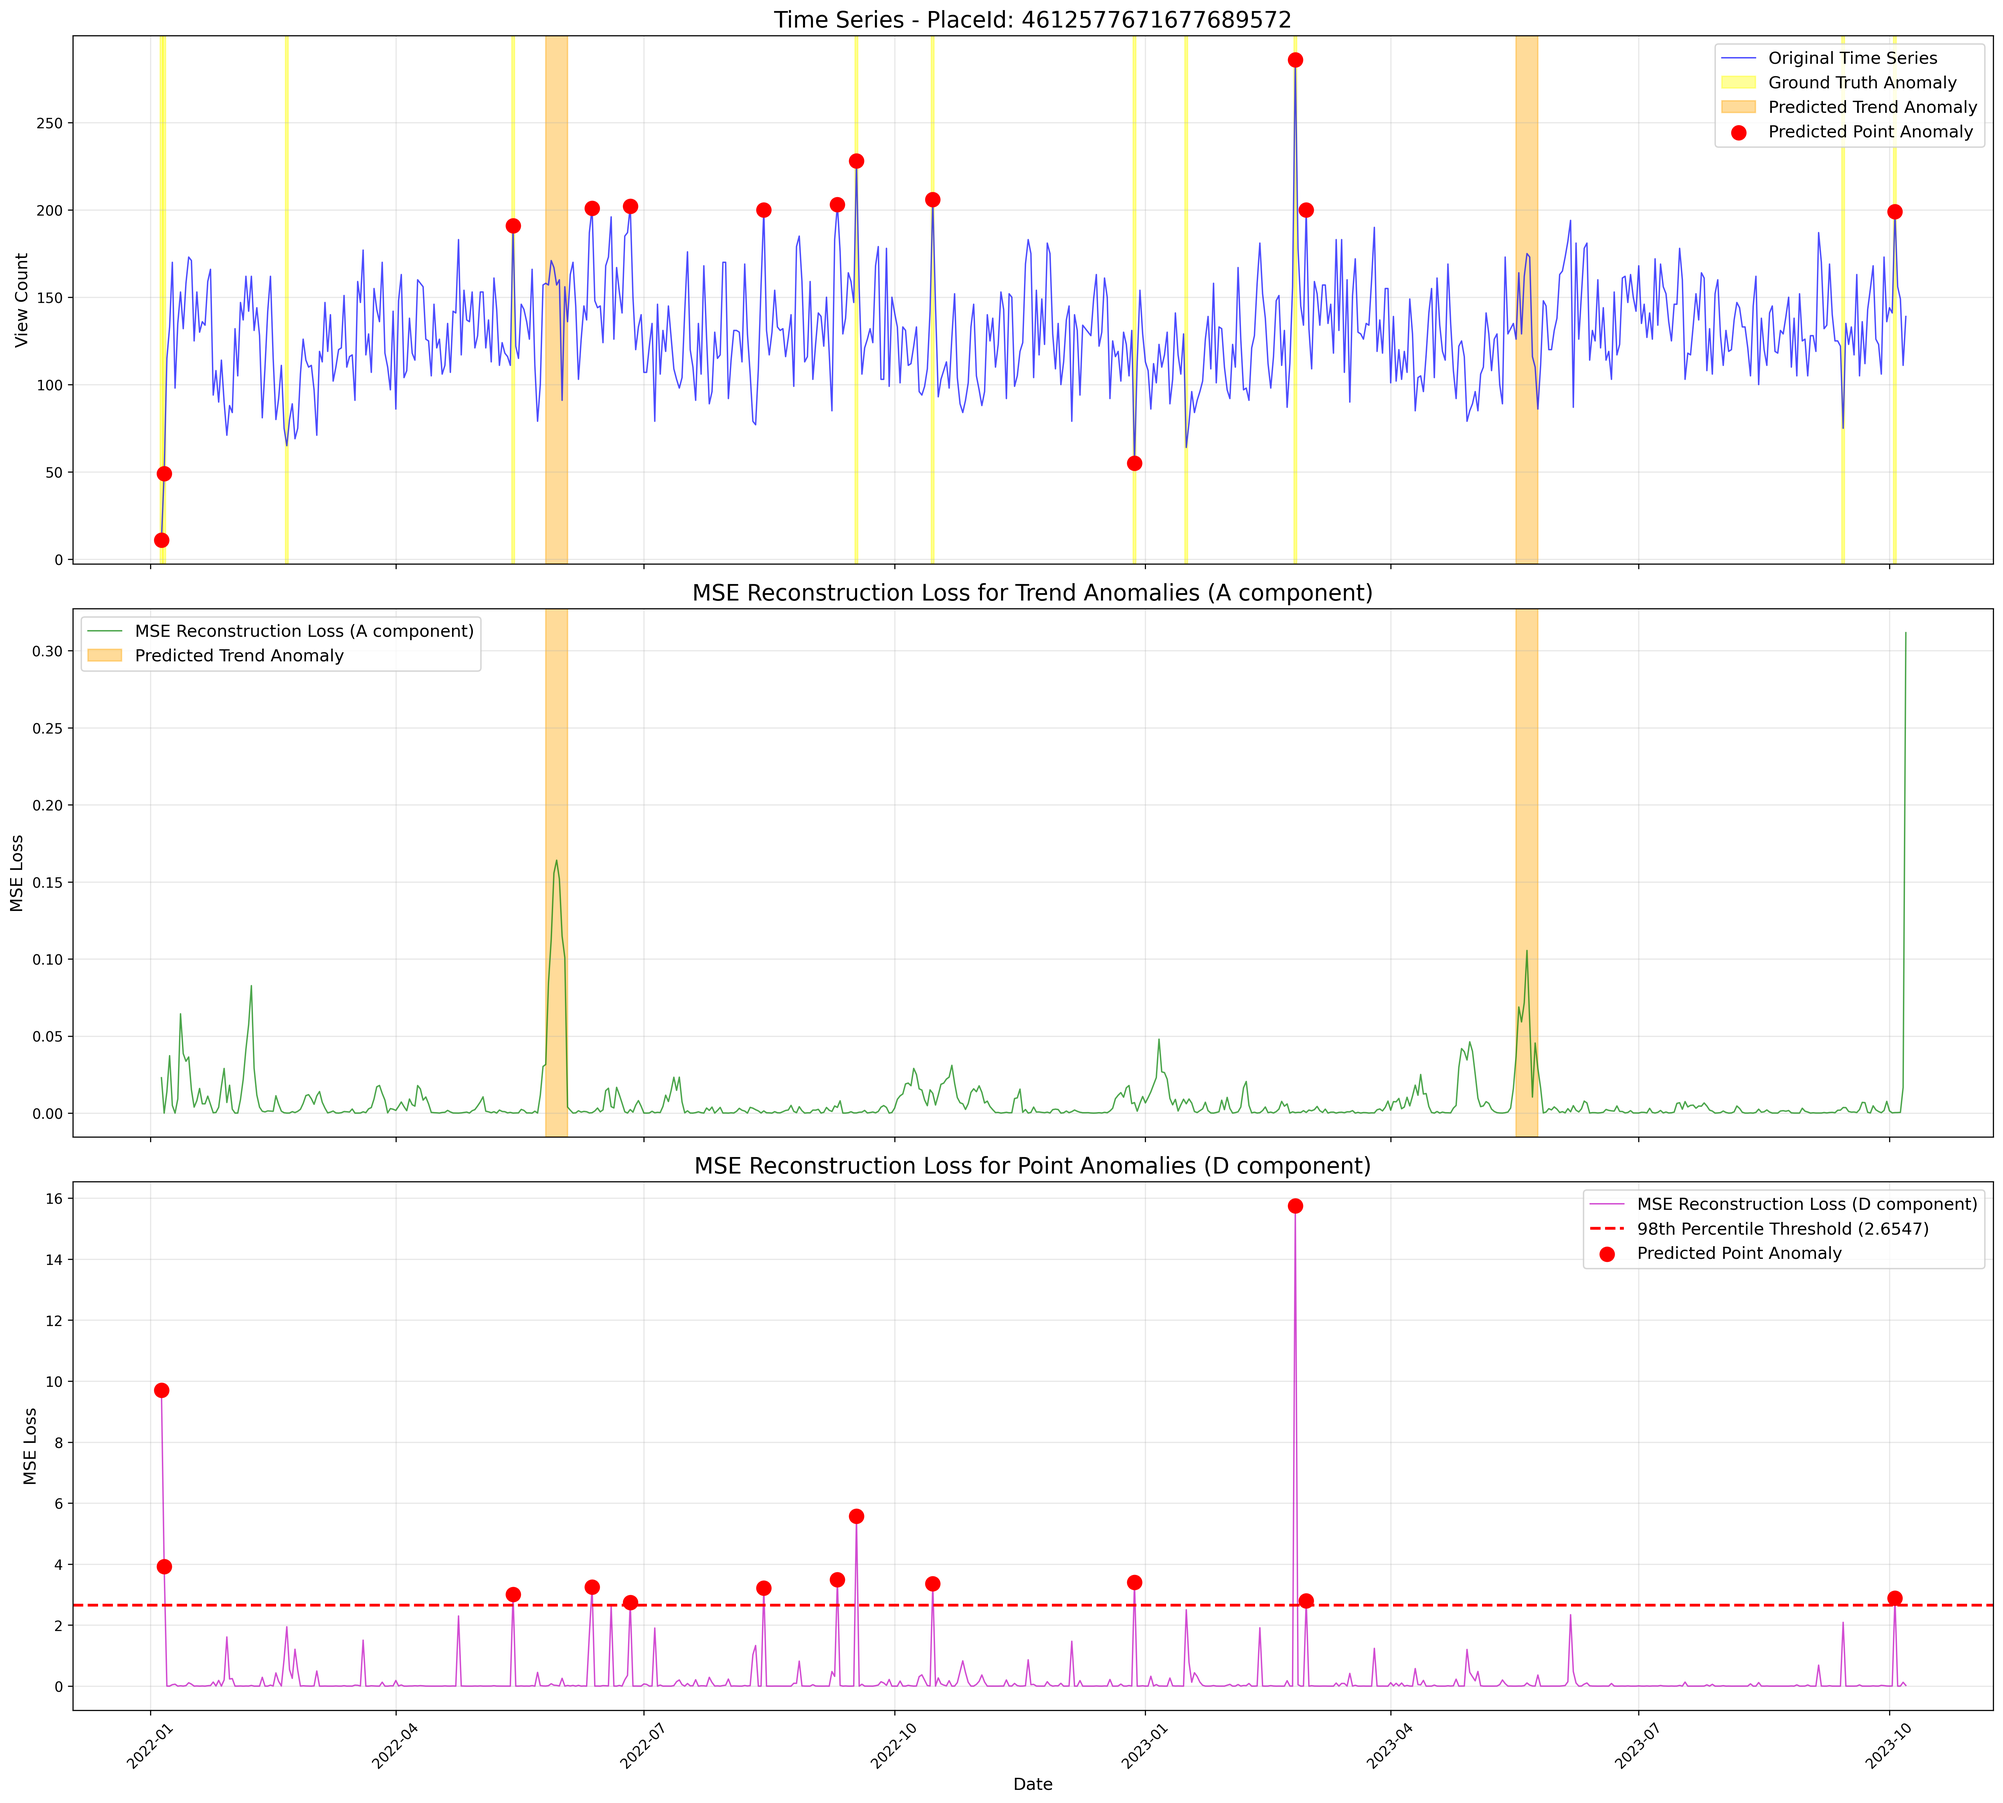
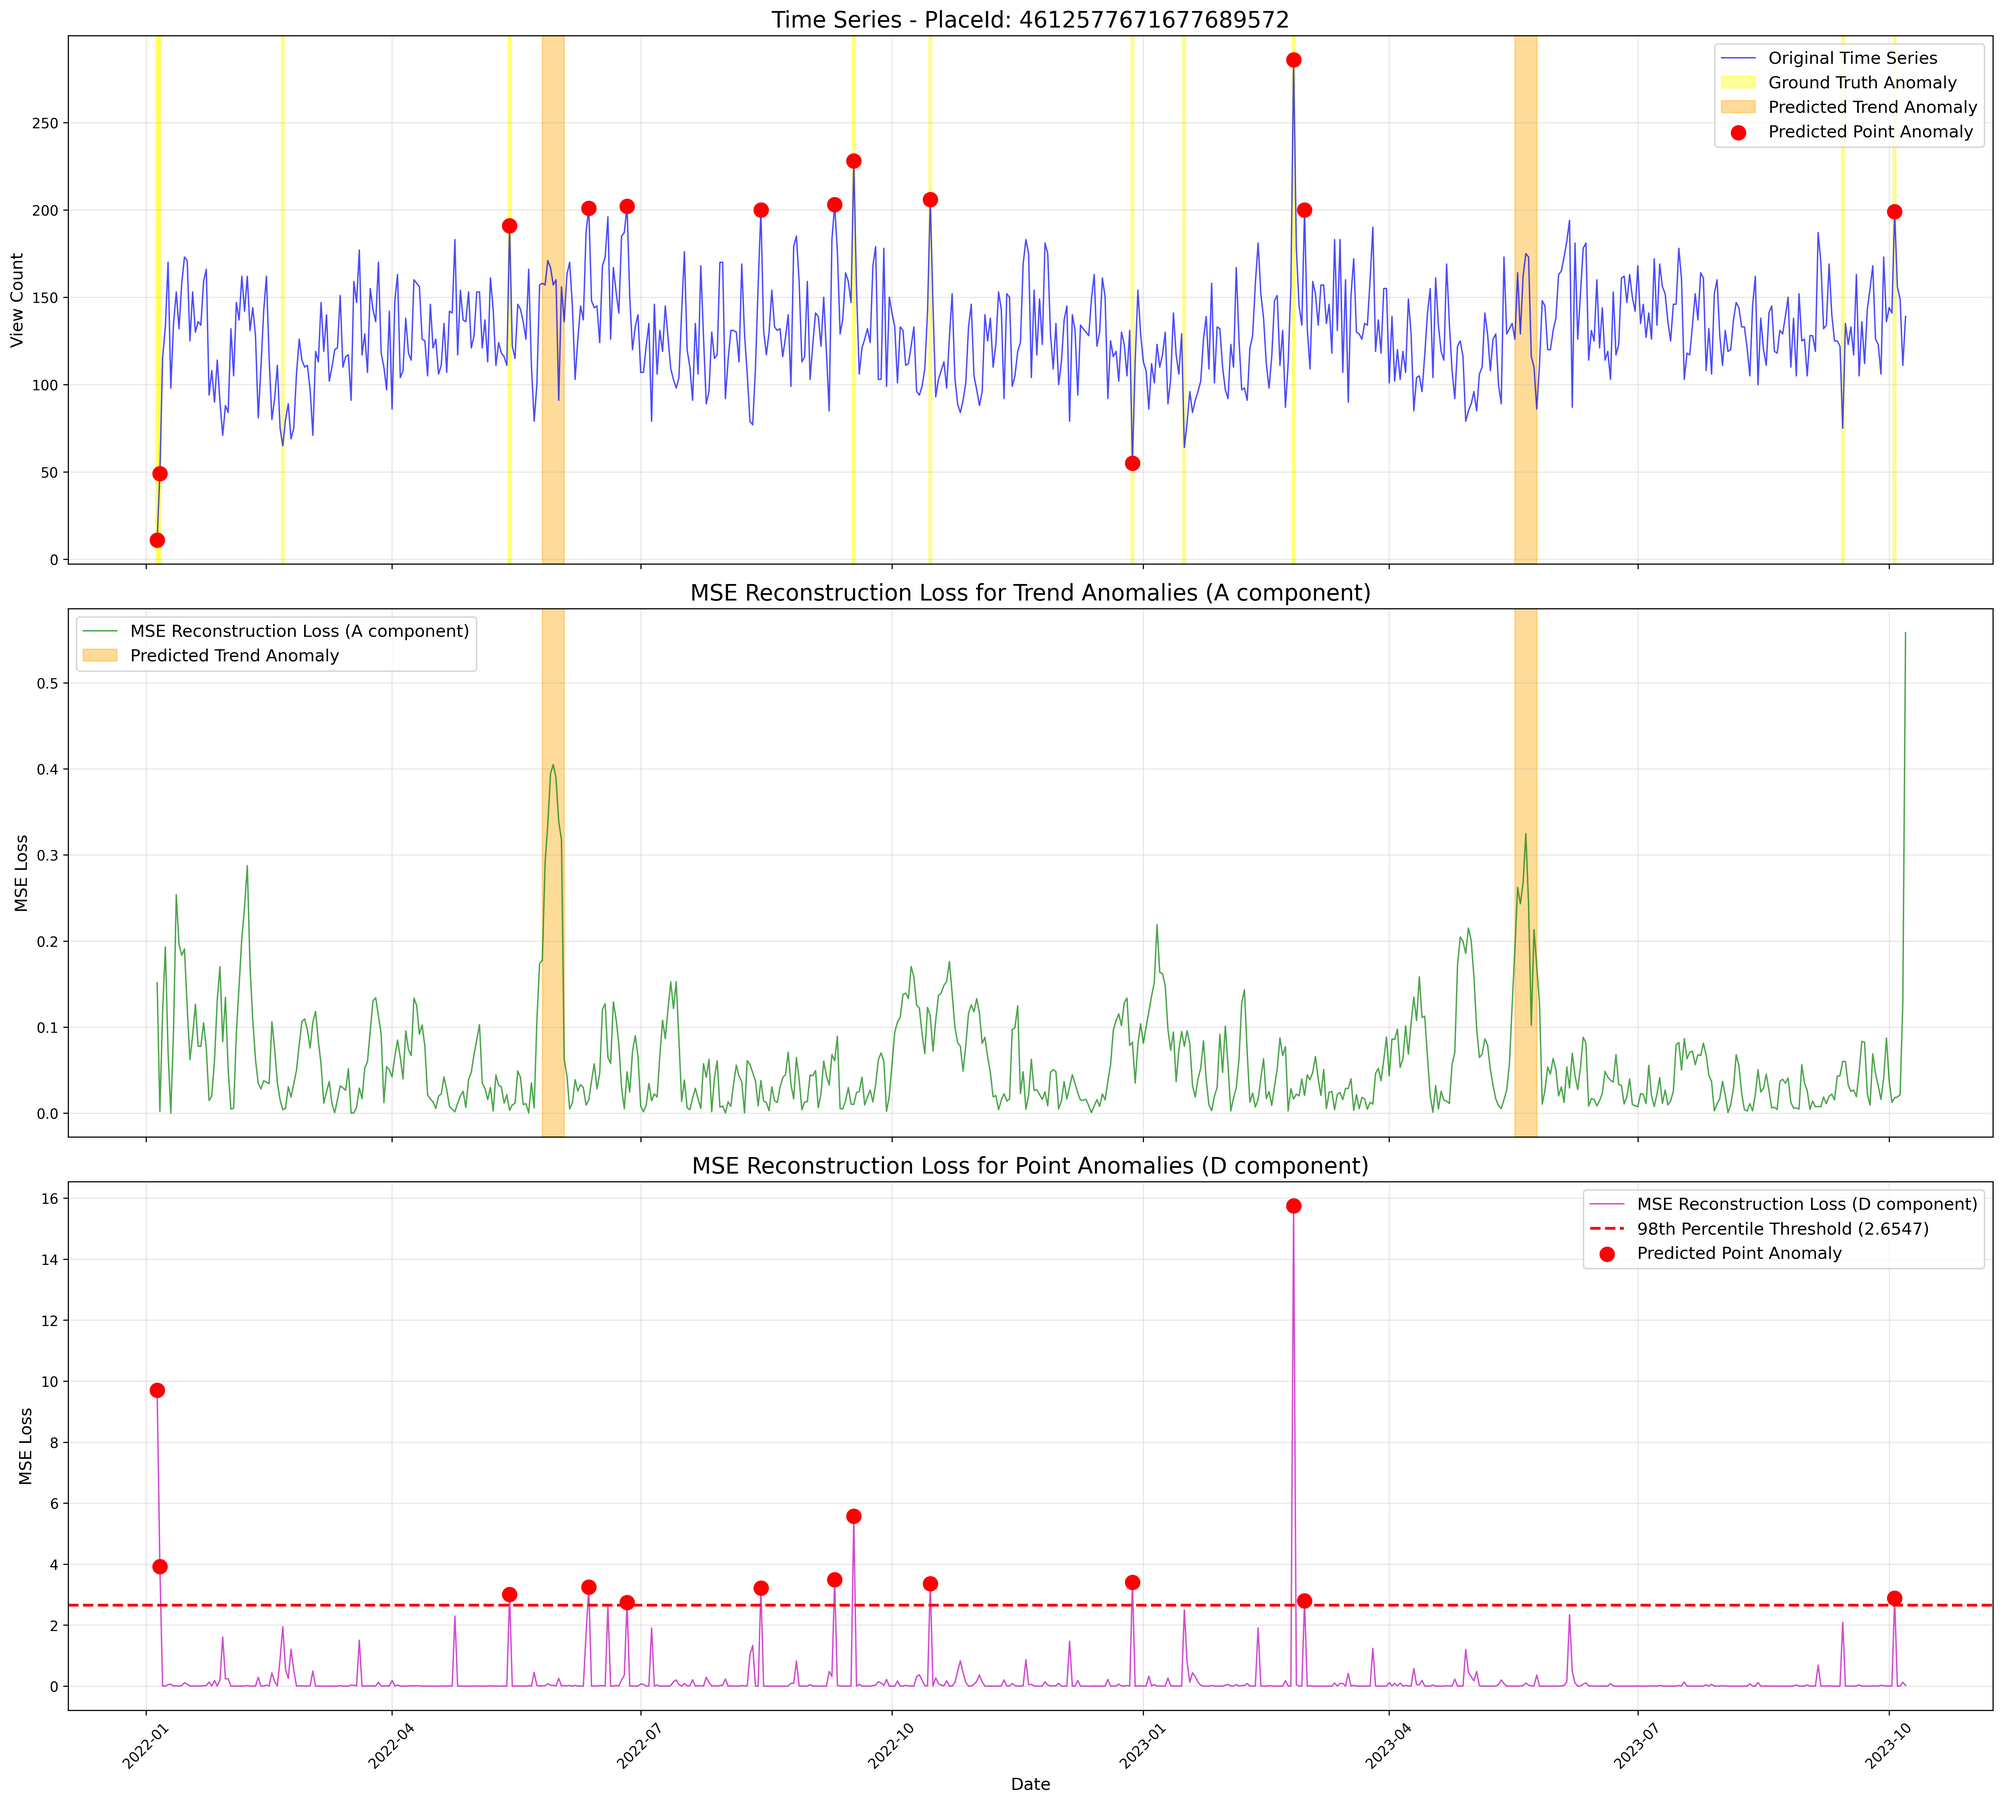
Update loss in stage_2

diff --git a/stage_2/inference.py b/stage_2/inference.py
@@ -215,11 +215,12 @@ def inference_on_places(data_path, labels_dir, model_path, num_places=30):
             reconstructed_a, reconstructed_d = model(a_tensor, d_tensor)
             reconstructed_a_np = reconstructed_a.squeeze().cpu().numpy()
             reconstructed_d_np = reconstructed_d.squeeze().cpu().numpy()
-            
-            # Tính MSE loss đúng cách với tensor
-            loss_fn = torch.nn.MSELoss(reduction='none')
-            loss_a = loss_fn(reconstructed_a, a_tensor).squeeze().cpu().numpy()
-            loss_d = loss_fn(reconstructed_d, d_tensor).squeeze().cpu().numpy()
+
+        # Tính MSE loss đúng cách với tensor
+        loss_fn = torch.nn.MSELoss(reduction='none')
+        loss_a = np.abs(a_np - reconstructed_a_np)
+        loss_d = loss_fn(reconstructed_d, d_tensor).squeeze().cpu().numpy()
+
         # 1. Phát hiện Trend Anomalies (từ MSE loss của 'a')
         threshold_a = np.percentile(loss_a, trend_percentile)
         trend_anomaly_indices_raw = np.where(loss_a >= threshold_a)[0]
